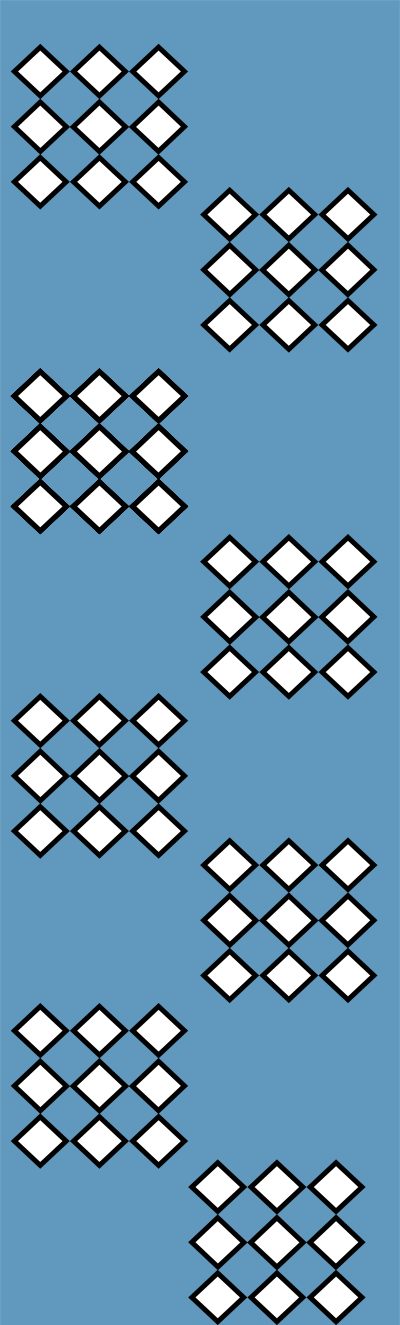
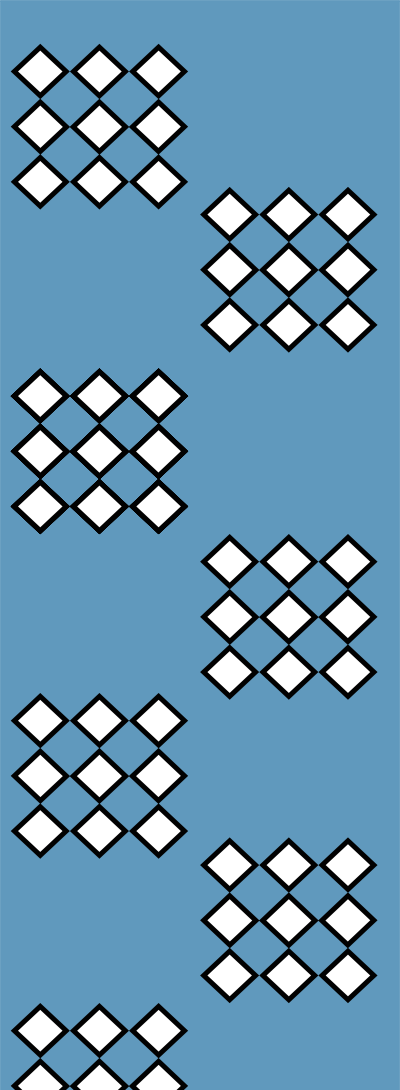
"Despoke Design" page 1. try vol 5

diff --git a/About.html b/About.html
@@ -6,6 +6,7 @@
 <link rel="stylesheet" href="https://use.typekit.net/rvx4faa.css">
 <link rel="stylesheet" href="https://use.typekit.net/rvx4faa.css">
 <link rel="stylesheet" href="https://use.typekit.net/rvx4faa.css">
+<link href="https://fonts.googleapis.com/css?family=Libre+Franklin&display=swap" rel="stylesheet">
 <link href="own_style.css" rel="stylesheet" type="text/css">
 <title> my own page</title>
 <head>
@@ -16,61 +17,48 @@
 <nav>
   <ul class="menu">
 
-      <!-- drop down menu -->
+    <!-- drop down menu -->
 
-        <a href="own_page.html" class="about" class="hover2">   <span  class="hover">Home</span> </a>
-          <a href="About.html" class="about" class="hover2"><span class="hover">About</span></a>
+    <a href="own_page.html" class="about" class="hover2">   <span  class="hover">Home</span> </a>
+    <a href="About.html" class="about" class="hover2"><span class="hover">About</span></a>
 
 
 
-      <!-- end of the drop down menu -->
-      <a href="portfolio.html" class="Portfolio"><span class="hover">Portfolio</span></a>
-        <a href="experience.html" class="Experience"><span class="hover">Experience</span></a>
-      <a href="contacts.html" class="Contact"><span class="hover">Contact</span></a>
+    <!-- end of the drop down menu -->
+    <a href="portfolio.html" class="Portfolio"><span class="hover">Portfolio</span></a>
+    <a href="experience.html" class="Experience"><span class="hover">Experience</span></a>
+    <a href="contacts.html" class="Contact"><span class="hover">Contact</span></a>
 
-    </ul>
-  </nav>
+  </ul>
+</nav>
 <body>
   <div class="face">
-    <img src="IMG_54354.png"  class="cover">
+    <img src="IMG_8460.png"  class="cover">
   </div>
 
   <div class="line">
-  <div class="pic2">
-    <img src="the pattern.png" alt="">
-        <img src="the pattern.png" alt="">
-            <img src="the pattern.png" alt="">
-                  <img src="the pattern2.png" alt="">
-              <img src="the pattern2.png" alt="">
-<img src="the pattern3.png" alt="">
+    <div class="pic2">
 
+      <img src="the pattern.png" alt="">
+  <img src="the pattern copy.png" alt="">
+    </div>
+    <div class="pic2vol">
+      <img src="the pattern.png" alt="">
 
-  </div>
-  <div class="pic2vol">
-    <img src="the pattern.png" alt="">
-    <!--
-        <img src="the pattern.png" alt="">
-        <!--
-            <img src="the pattern.png" alt="">
-              <img src="the pattern2.png" alt="">
-              <img src="the pattern4.png" alt="">
--->
-
+    </div>
   </div>
 
-  </div>
-  <a class="side-pic">
   <div class="ruut">
 
-    <p class="text">
+    <p id="text" class="blog">
       Hello, dear visitor!
-<br>
-<br>
-My name is Hans Uustalu.
-<br>
-  I am a UX design student in The Hague University of Applied Sciences. The interest to go and study UX design came from the perspective that I am also a photographer for 10 years. Also, the fact that I am a visual person but on the other hand I am not into so much of drawing. As I am a visual person then I am always being thinking of creating something for the web like websites.  So Then at one point I was looking for a web design studies but most of them where taught in master courses. So, I had to find something else that will suit for me. Then I happened to find out about a field called UXD (User Experience Design).<br>
-UXD field engaged me because of the user centred design. So, the user comes first. Studying UX design it has given me the feeling that the field is very wide in a sense that it contains a lot of different parts and aspects that you can focus on. As you can focus on different fields like Experience strategy, User Research, Information architecture, Interaction Design. I personally focus more on to the Interaction Design part. Where for example I can focus on the user interaction with specific things on a website and how users interact with it. So, I could make the experience better for the user.<br>
-Also, a bit about my back ground. I am from Estonia and I am 21 years old. One of my great hobby is photography. I have been a photographer for over 10 years. This gives me the opportunity to express myself through visual language. So, I have been also working as a photographer since twelfth grade besides school back in my home country Estonia.
+      <br>
+      <br>
+      My name is Hans Uustalu.
+      <br>
+      I am a UX design student in The Hague University of Applied Sciences. The interest to go and study UX design came from the perspective that I am also a photographer for 10 years. Also, the fact that I am a visual person but on the other hand I am not into so much of drawing. As I am a visual person then I am always being thinking of creating something for the web like websites.  So Then at one point I was looking for a web design studies but most of them where taught in master courses. So, I had to find something else that will suit for me. Then I happened to find out about a field called UXD (User Experience Design).<br>
+      UXD field engaged me because of the user centred design. So, the user comes first. Studying UX design it has given me the feeling that the field is very wide in a sense that it contains a lot of different parts and aspects that you can focus on. As you can focus on different fields like Experience strategy, User Research, Information architecture, Interaction Design. I personally focus more on to the Interaction Design part. Where for example I can focus on the user interaction with specific things on a website and how users interact with it. So, I could make the experience better for the user.<br>
+      Also, a bit about my back ground. I am from Estonia and I am 21 years old. One of my great hobby is photography. I have been a photographer for over 10 years. This gives me the opportunity to express myself through visual language. So, I have been also working as a photographer since twelfth grade besides school back in my home country Estonia.
 
 
 
@@ -78,5 +66,5 @@ Also, a bit about my back ground. I am from Estonia and I am 21 years old. One o
 
 
 
-</body>
-</html>
+  </body>
+  </html>

diff --git a/Bespoke.html b/Bespoke.html
@@ -6,6 +6,7 @@
 <link rel="stylesheet" href="https://use.typekit.net/rvx4faa.css">
 <link rel="stylesheet" href="https://use.typekit.net/rvx4faa.css">
 <link rel="stylesheet" href="https://use.typekit.net/rvx4faa.css">
+<link href="https://fonts.googleapis.com/css?family=Libre+Franklin&display=swap" rel="stylesheet">
 <link href="own_style.css" rel="stylesheet" type="text/css">
 <title> my own page</title>
 <head>
@@ -32,6 +33,31 @@
   </nav>
 
 <body>
-s
+
+<p id="text"  class="blog">
+  In this course in my studies, I had a design partner with whom I designed a personalized gift receiving experience. So, in the project me and my design partner had two users one for each. For that we both had to conduct an interview with the same topics. To get similar information but from two different user perspective.<br>
+
+
+  The first part of putting the plan together and make the topic for an interview with the user.  After that me and my design partner had to conduct the interview. Unfortunately, then some issues accorded. For example, my user didn’t show up on time where we had arranged the meeting. So, then whole process just got stack for some time. But we managed to deliver everything on time in the end.<br>
+  When me and my design partner got enough information then we made our own portrait about our user. This phase helped me to empathise with the user because then I processed the data trough.<br>
+  <img src="IMG_12.jpg" alt="" width="421" height="595.5" class="right">
+  From the portrait, we analysed both of our portraits of the user and then started to create a combined persona. The persona consisted of the similarities from both of the users.<br> <img src="Picture1.png" alt="" width="432" height="603.5">
+   The persona give us a very good over view of the important parts of the whole data. So, it helped to create and Design vison for creating the design of the experience. Also, it helped us to define the aspects that on what we should focused on in this particular project. As it came from the analysed data that our users combined together is lacing of time management skills. From that we decided to create and design an “Time Management Game”. I created a tool for a user who is going to create the gift for someone. After analysing the data and made the designe vison then I created a prototype of the toll which is met for a user who is the giver in this senario.<br><br>
+   <img src="IMG_proto_web.png" alt="" width="432" height="603.5">
+   <img src="IMG_proto_clock.png" alt=""width="811.5" height="703.5">
+   <br>
+   <br>
+   Here are the screen shots of the prototype that I made.
+   <div class="pos2"  >
+   <img src="IMG_start.png" alt="" width="470px" height="293.5px" class="pos2">
+<img src="IMG_clocks.png" alt="" width="470px" height="293.5px"  class="pos2">
+<img src="IMG_clocks_select.png" alt="" width="470px" height="293.5px" class="pos2">
+<img src="IMG_colorwheel.png" alt="" width="470px" height="293.5px" class="pos2">
+<img src="IMG_color_wheel_selected.png" alt="" width="470px" height="293.5px" class="pos2">
+<img src="IMG_material.png" alt=""width="470px" height="293.5px"class="pos2">
+<img src="IMG_QR.png" alt="" width="470px" height="293.5px"class="pos2">
+</div>
+</p>
+
 </body>
 </html>

diff --git a/own_style.css b/own_style.css
@@ -50,7 +50,7 @@ body{
   background-color:#6099bd;
 }
 /* div{
-  word-wrap: 30px;
+word-wrap: 30px;
 } */
 .menu{
 
@@ -64,11 +64,11 @@ body{
 
 }
 .start{
-margin: 10%;
-font-size: 40px;
-font-family: bungee, sans-serif;
-font-weight: 400;
-font-style: normal;
+  margin: 10%;
+  font-size: 40px;
+  font-family: bungee, sans-serif;
+  font-weight: 400;
+  font-style: normal;
 }
 img {
   max-width: 100%;
@@ -116,14 +116,14 @@ li:hover{
   color:white;
   background-color: black;
   padding-bottom: -10%;
-    margin-top: -50px;
-    margin-bottom: 100px;
+  margin-top: -50px;
+  margin-bottom: 100px;
 
 }
 .hover2:hover{
   color:white;
   background-color: black;
-color:white;
+  color:white;
   background-color: black;
   border-radius: 40px;
   padding: 10px;
@@ -174,8 +174,8 @@ color:white;
   padding-top: 0px;
   padding-bottom: -10px;
   margin-left: 24%;
-    margin-top: -0.7%;
-flex: center;
+  margin-top: -0.7%;
+  flex: center;
 }
 .box2{
   display: grid;
@@ -244,58 +244,31 @@ flex: center;
   background-color:  black;
   background-color: groove black;
   margin-bottom: 100px;
- left:0px; bottom:350px;
+  left:0px; bottom:350px;
 }
 .ruut{
 
   border: 6px solid black;
-    height: 100%;
-    padding: 12px;
-     width: 45%;
-     margin-left:25%;
-     position: center;
-     margin-top: -106px;
-   }
-.side-pic{
-  width: 5%;
   height: 100%;
-  margin-top: 20%;
-  z-index: 1;
-  overflow-x: hidden;
-
+  padding: 12px;
+  width: 45%;
+  margin-left:25%;
+  position: center;
+  margin-top: -106px;
 }
+
 .pic2{
-  display: grid;
   width: 25%;
-  grid-column: 1fr 1fr 1fr;
-  grid-row: 1fr 1fr 1fr 1fr;
-background-image: url(../the pattern.png);
-
- background-repeat: repeat;
- float: left;
- margin-top: 6px;
-
+  float: left;
+  margin-top: 6px;
 }
 .pic2vol{
-  display: grid;
   width: 27.5%;
-  grid-column: 1fr 1fr 1fr;
-  grid-row: 1fr 1fr 1fr 1fr;
- background-repeat: repeat;
- float: right;
- margin-top: 6px;
+  float: right;
+  margin-top: 6px;
 
 }
-.pic3{
-  display:grid;
-grid-template-rows: 2fr;
-grid-template-columns: 2fr;
-width: 25%;
-margin-top: -463%;
-position: static;
 
-imagesidebar: repeat-x;
-}
 .imagesidebar{
   padding:20px;
   width: 260px;
@@ -351,7 +324,7 @@ button{
   grid-template-columns: repeat(2fr,1fr);
   grid-gap: 10px;
   grid-auto-rows: minmax(100px, auto);
-  }
+}
 .size{
   height: 100%;
   width: 100%;
@@ -376,7 +349,7 @@ button{
   background-image: url(contact.png) ;margin-right:30px;
   background-size: cover;
   margin-left: 15%;
-margin-right: 200px;
+  margin-right: 200px;
 }
 .box2{
   margin-top: 120%;
@@ -457,10 +430,33 @@ margin-right: 200px;
   display: grid;
   grid-template-columns: auto;
   grid-auto-rows: auto;
-grid-row: span 3;
-grid-column: span 4;
+  grid-row: span 3;
+  grid-column: span 4;
 
 }
-.text{
-  font-size: 30px;
+#text{
+  margin-top: 5%;
+  font-size: 28.5px;
+  margin-right: 30px;
+  margin-left: 30px;
+}
+.blog{
+font-family: 'Libre Franklin', sans-serif;
+}
+.right{
+  float: right;
+}
+.centre{
+  display: gird;
+  grid-row: 4;
+
+width: 470px;
+height: 293.5px;
+margin-right: 5px;
+margin-left: 5px;
+}
+.pos2{
+  display: gird;
+  grid-row: 2;
+
 }
